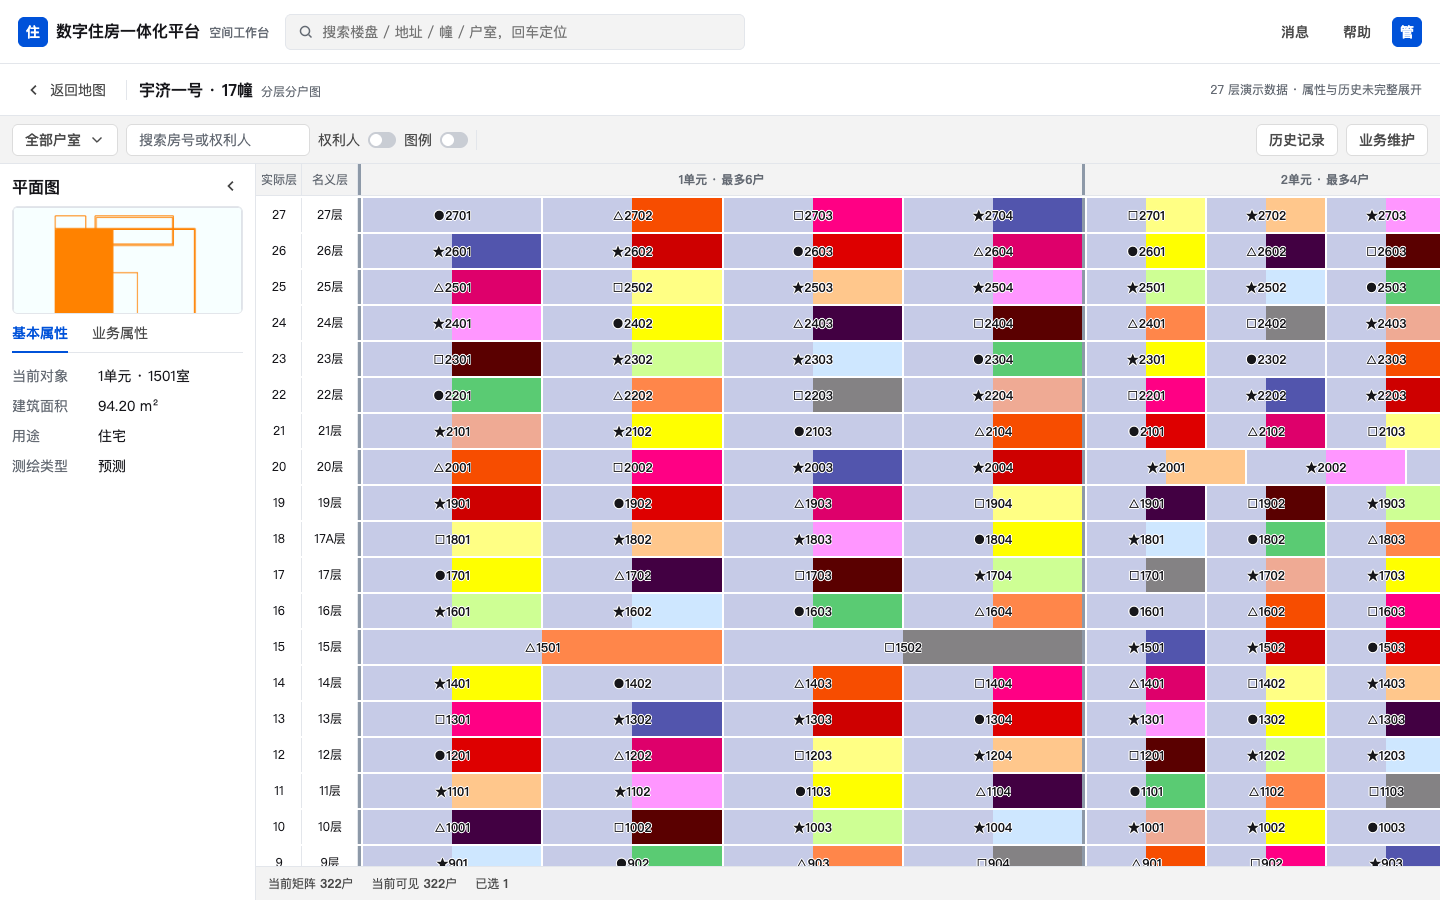
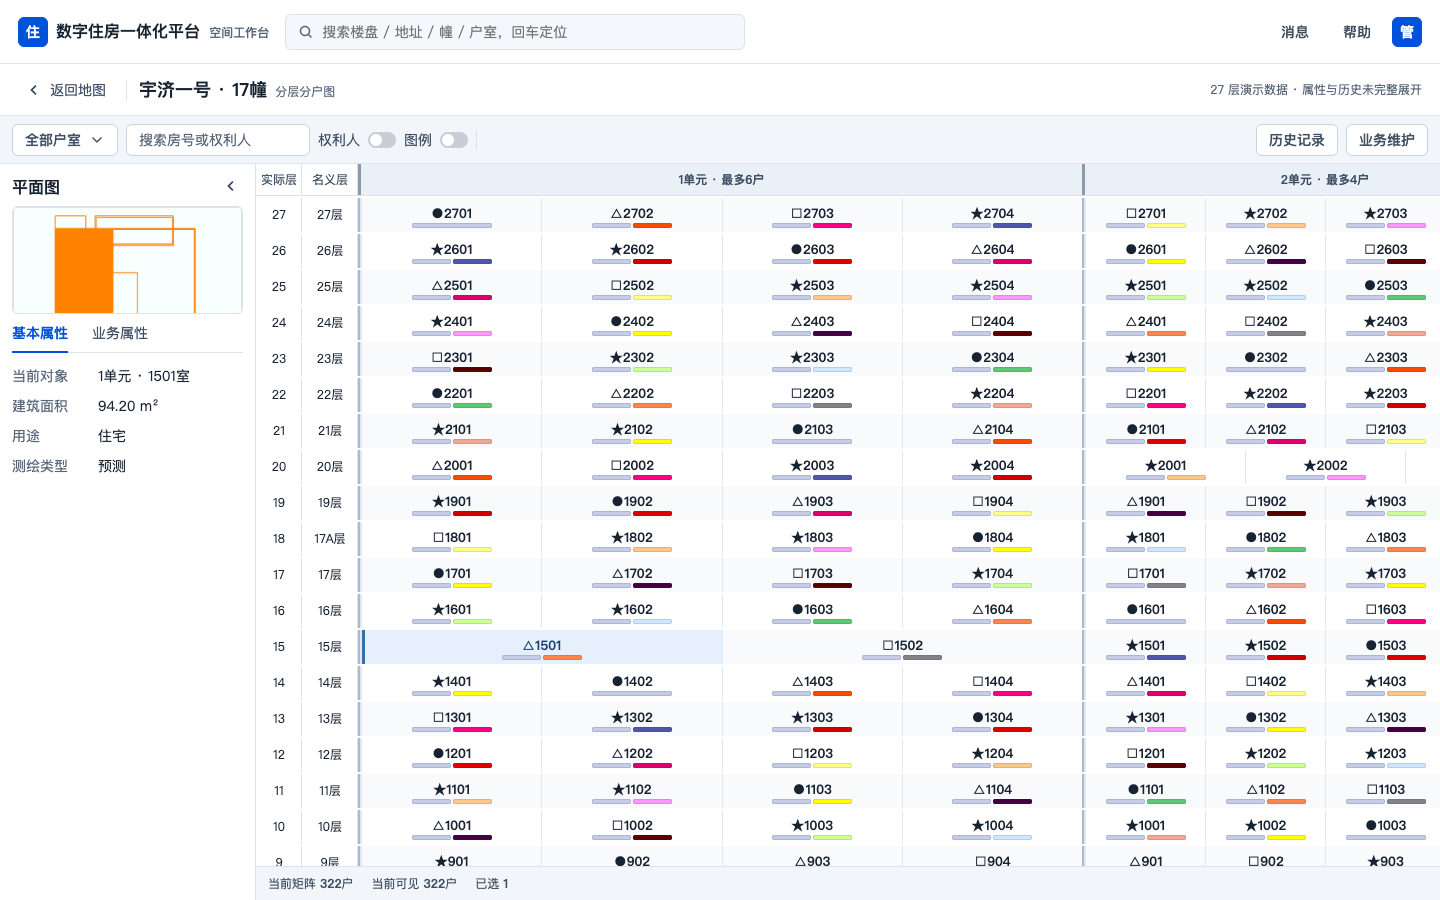
Publish approved GIS building matrix styling and evidence

diff --git a/public/projects/real-estate-gis/prototypes/building/index.html b/public/projects/real-estate-gis/prototypes/building/index.html
@@ -7,7 +7,56 @@
 <title>&#20998;&#23618;&#20998;&#25143;&#22270;&#65372;&#25968;&#23383;&#20303;&#25151;&#19968;&#20307;&#21270;&#24179;&#21488;</title>
 <link rel="stylesheet" href="workspace-tdesign.css">
 <style>html,body{width:100%;min-width:100%;height:100%;overflow:hidden}.workspace-shell{width:100%;min-width:100%}.workspace-shell.building>section{width:100%;min-width:100%}.workspace-shell .wk-global-search>svg{display:block;width:16px;height:16px;flex:0 0 16px;fill:none;stroke:currentColor;overflow:visible}.workspace-shell .wk-global-search>svg circle,.workspace-shell .wk-global-search>svg path{fill:none;stroke:currentColor}
-*{box-sizing:border-box}body{margin:0}.building{height:100vh;overflow:hidden;background:var(--wk-bg-page)}.building,.building button,.building input{font-family:var(--wk-font-family)}.main{display:flex;flex:1;min-height:0}.column{display:flex;min-width:0;flex:1;flex-direction:column;background:var(--wk-bg-surface)}.wk-toolbar{position:relative;z-index:20;overflow:visible}.bar-search{width:184px}.sep{width:1px;height:20px;background:var(--wk-border)}.inspector-pad{height:100%;padding:12px;position:relative}.collapse{position:absolute;top:8px;right:8px}.plan-head{display:flex;justify-content:space-between;margin:0 0 8px;font-size:16px;font-weight:600}.plan-head small{font-size:12px;font-weight:400;color:var(--wk-text-placeholder)}.plan{height:108px;display:grid;place-items:center;background:#f4f8f8;border:1px solid var(--wk-border);border-radius:6px}.plan b{width:104px;height:66px;border:2px solid #ff8a00;box-shadow:inset 24px 12px #ff8a00}.props{display:grid;grid-template-columns:78px minmax(0,1fr);gap:8px;margin:12px 0 0;font-size:14px}.props dt{color:var(--wk-text-placeholder)}.props dd{margin:0;overflow:hidden;text-overflow:ellipsis;white-space:nowrap}.hidden{display:none!important}.folded{height:100%;align-items:center;flex-direction:column;gap:12px;padding-top:4px}.folded span{color:var(--wk-text-secondary);font-size:12px;letter-spacing:2px;writing-mode:vertical-rl}.matrix{position:relative;flex:1;min-height:0;overflow:auto;background:#fff}.matrix-canvas{width:1915px;min-height:100%}.head,.row{display:grid;grid-template-columns:46px 56px 724px 483px 606px}.head{position:sticky;top:0;z-index:10;height:32px;border-bottom:1px solid var(--wk-border);color:var(--wk-text-placeholder);font-size:12px;text-align:center}.head>*{display:grid;place-items:center;background:var(--wk-bg-subtle)}.row{height:34px;margin-top:2px}.floor{display:grid;place-items:center;background:#fff;box-shadow:inset -1px 0 var(--wk-border);font-size:12px}.actual,.nominal{position:sticky;z-index:12;background:#fff}.actual{left:0}.nominal{left:46px}.head .actual,.head .nominal{z-index:14;background:var(--wk-bg-subtle)}.unit-band{display:grid;gap:2px;min-width:0;padding-left:2px;border-left:3px solid #8d99a8;background:#fff}.head b{border-left:3px solid #8d99a8}.room{position:relative;display:flex;align-items:center;justify-content:center;min-width:0;overflow:hidden;border:0;padding:0 4px;background:#cbd2ee;color:#16161a;cursor:pointer;font-size:12px;font-weight:600;text-overflow:ellipsis;white-space:nowrap;text-shadow:-1px 0 #fff,0 1px #fff,1px 0 #fff,0 -1px #fff}.room:hover{outline:1px solid var(--wk-primary);outline-offset:-1px}.room:focus-visible,.room.selected{outline:2px solid var(--wk-primary);outline-offset:-2px;z-index:2}.state-band{position:absolute;inset:0;display:flex;z-index:0}.state-band i{flex:1;background:var(--state)}.room__label{position:relative;z-index:1;overflow:hidden;text-overflow:ellipsis}.room.dim{opacity:.18}.matrix-empty{position:absolute;inset:32px 0 0;display:none;place-items:center;background:rgba(255,255,255,.92);z-index:16}.matrix-empty.show{display:grid}.matrix-foot{height:34px;display:flex;align-items:center;gap:18px;padding:0 12px;background:var(--wk-bg-subtle);border-top:1px solid var(--wk-border);color:var(--wk-text-secondary);font-size:12px}.legend{position:absolute;top:164px;right:0;bottom:0;z-index:30;width:272px;box-shadow:var(--wk-shadow-float)}.legend-head{display:flex;align-items:center;justify-content:space-between;padding:12px 14px;border-bottom:1px solid var(--wk-border)}.legend-hint{padding:8px 14px;background:var(--wk-bg-subtle);color:var(--wk-text-placeholder);font-size:12px}.legend-scroll{overflow:auto}.legend-group{padding:10px 14px;border-bottom:1px solid var(--wk-border)}.legend-group b{font-size:12px}.legend-item{display:flex;align-items:center;min-height:30px;gap:8px;color:var(--wk-text-secondary);font-size:12px;cursor:pointer}.legend-item:has(input:checked){background:var(--wk-primary-bg);color:var(--wk-primary);font-weight:600}.swatch{width:12px;height:12px;flex:0 0 12px;border:1px solid var(--wk-border-control);border-radius:4px;background:var(--state)}.legend-item input{width:16px;height:16px;accent-color:var(--wk-primary)}.toast{position:absolute;left:50%;bottom:48px;display:none;z-index:50;transform:translateX(-50%);padding:9px 14px;color:#fff;background:#1d2129;border-radius:4px;font-size:12px}.toast.show{display:block}@media(max-width:900px){.wk-brand{min-width:auto}.wk-brand__sub,.nav-text{display:none}.bar-search{width:150px}.wk-object-header__context{display:none}}
+*{box-sizing:border-box}body{margin:0}.building{height:100vh;overflow:hidden;background:var(--wk-bg-page)}.building,.building button,.building input{font-family:var(--wk-font-family)}.main{display:flex;flex:1;min-height:0}.column{display:flex;min-width:0;flex:1;flex-direction:column;background:var(--wk-bg-surface)}.wk-toolbar{position:relative;z-index:20;overflow:visible}.bar-search{width:184px}.sep{width:1px;height:20px;background:var(--wk-border)}.inspector-pad{height:100%;padding:12px;position:relative}.collapse{position:absolute;top:8px;right:8px}.plan-head{display:flex;justify-content:space-between;margin:0 0 8px;font-size:16px;font-weight:600}.plan-head small{font-size:12px;font-weight:400;color:var(--wk-text-placeholder)}.plan{height:108px;display:grid;place-items:center;background:#f4f8f8;border:1px solid var(--wk-border);border-radius:6px}.plan b{width:104px;height:66px;border:2px solid #ff8a00;box-shadow:inset 24px 12px #ff8a00}.props{display:grid;grid-template-columns:78px minmax(0,1fr);gap:8px;margin:12px 0 0;font-size:14px}.props dt{color:var(--wk-text-placeholder)}.props dd{margin:0;overflow:hidden;text-overflow:ellipsis;white-space:nowrap}.hidden{display:none!important}.folded{height:100%;align-items:center;flex-direction:column;gap:12px;padding-top:4px}.folded span{color:var(--wk-text-secondary);font-size:12px;letter-spacing:2px;writing-mode:vertical-rl}.matrix{position:relative;flex:1;min-height:0;overflow:auto;background:#fff}.matrix-canvas{width:1915px;min-height:100%}.head,.row{display:grid;grid-template-columns:46px 56px 724px 483px 606px}.head{position:sticky;top:0;z-index:10;height:32px;border-bottom:1px solid var(--wk-border);color:var(--wk-text-placeholder);font-size:12px;text-align:center}.head>*{display:grid;place-items:center;background:var(--wk-matrix-heading);color:var(--wk-text-secondary)}.row{height:34px;margin-top:2px}.floor{display:grid;place-items:center;background:#fff;box-shadow:inset -1px 0 var(--wk-border);font-size:12px}.actual,.nominal{position:sticky;z-index:12;background:#fff}.actual{left:0}.nominal{left:46px}.head .actual,.head .nominal{z-index:14}.unit-band{display:grid;gap:1px;min-width:0;padding-left:2px;border-left:2px solid var(--wk-matrix-unit-line);background:var(--wk-matrix-grid-line)}.head b{border-left:3px solid #8d99a8}
+.room {
+  position: relative;
+  display: flex;
+  align-items: center;
+  justify-content: center;
+  min-width: 0;
+  overflow: hidden;
+  border: 0;
+  padding: 0 4px 5px;
+  background: var(--wk-matrix-room);
+  color: var(--wk-text);
+  cursor: pointer;
+  font-size: 13px;
+  font-weight: 600;
+  font-variant-numeric: tabular-nums;
+  text-overflow: ellipsis;
+  white-space: nowrap;
+}
+.row:nth-child(even) .room { background: var(--wk-bg-surface); }
+.row .room:not(.dim, .selected, .is-selected):hover { background: var(--wk-bg-hover); }
+.row .room:is(.selected, .is-selected) {
+  background: var(--wk-matrix-room-selected);
+  color: var(--wk-matrix-room-selected-ink);
+  box-shadow: inset 3px 0 var(--wk-matrix-room-indicator);
+}
+.room:focus-visible {
+  outline: 2px solid var(--wk-primary);
+  outline-offset: -3px;
+  z-index: 2;
+}
+.matrix.has-room-selection .room:not(.selected, .is-selected, .dim) {
+  opacity: .72;
+}
+.state-band {
+  position: absolute;
+  inset: auto 10px 4px;
+  display: flex;
+  gap: 2px;
+  width: min(80px, calc(100% - 20px));
+  height: 5px;
+  margin-inline: auto;
+}
+.state-band i {
+  flex: 1;
+  background: var(--state);
+  border-radius: 2px;
+  box-shadow: inset 0 0 0 1px rgb(27 49 76 / 14%);
+}
+.room__label{position:relative;z-index:1;overflow:hidden;text-overflow:ellipsis}.room.dim{opacity:.18}.matrix-empty{position:absolute;inset:32px 0 0;display:none;place-items:center;background:rgba(255,255,255,.92);z-index:16}.matrix-empty.show{display:grid}.matrix-foot{height:34px;display:flex;align-items:center;gap:18px;padding:0 12px;background:var(--wk-bg-subtle);border-top:1px solid var(--wk-border);color:var(--wk-text-secondary);font-size:12px}.legend{position:absolute;top:164px;right:0;bottom:0;z-index:30;width:272px;box-shadow:var(--wk-shadow-float)}.legend-head{display:flex;align-items:center;justify-content:space-between;padding:12px 14px;border-bottom:1px solid var(--wk-border)}.legend-hint{padding:8px 14px;background:var(--wk-bg-subtle);color:var(--wk-text-placeholder);font-size:12px}.legend-scroll{overflow:auto}.legend-group{padding:10px 14px;border-bottom:1px solid var(--wk-border)}.legend-group b{font-size:12px}.legend-item{display:flex;align-items:center;min-height:30px;gap:8px;color:var(--wk-text-secondary);font-size:12px;cursor:pointer}.legend-item:has(input:checked){background:var(--wk-primary-bg);color:var(--wk-primary);font-weight:600}.swatch{width:12px;height:12px;flex:0 0 12px;border:1px solid var(--wk-border-control);border-radius:4px;background:var(--state)}.legend-item input{width:16px;height:16px;accent-color:var(--wk-primary)}.toast{position:absolute;left:50%;bottom:48px;display:none;z-index:50;transform:translateX(-50%);padding:9px 14px;color:#fff;background:#1d2129;border-radius:4px;font-size:12px}.toast.show{display:block}@media(max-width:900px){.wk-brand{min-width:auto}.wk-brand__sub,.nav-text{display:none}.bar-search{width:150px}.wk-object-header__context{display:none}}
 </style>
 <style>
 .plan{overflow:hidden}.plan img{display:block;max-width:100%;max-height:100%;object-fit:contain}
@@ -25,23 +74,6 @@
 </style>
 <script src="../demo-data.js"></script>
 </head>
-<style>
-.workspace-shell .room.selected,
-.workspace-shell .room.is-selected {
-  z-index: 2;
-}
-.workspace-shell .room.is-selected::after {
-  content: '';
-  position: absolute;
-  inset: 0;
-  z-index: 3;
-  pointer-events: none;
-  border: 3px solid #0052D9;
-}
-.workspace-shell .matrix.has-room-selection .room:not(.is-selected) {
-  opacity: .18;
-}
-</style>
 <body>
 <div class="workspace-shell building"><section style="height:100%;display:flex;flex-direction:column;position:relative;overflow:hidden"><header class="wk-header"><div class="wk-brand">
 <span class="wk-brand__mark">&#20303;</span><span>&#25968;&#23383;&#20303;&#25151;&#19968;&#20307;&#21270;&#24179;&#21488; <span class="wk-brand__sub">&#31354;&#38388;&#24037;&#20316;&#21488;</span></span>

diff --git a/public/projects/real-estate-gis/prototypes/building/workspace-tdesign.css b/public/projects/real-estate-gis/prototypes/building/workspace-tdesign.css
@@ -28,16 +28,16 @@
   --wk-primary-active: var(--primary-active, #003CAB);
   --wk-primary-bg: var(--primary-1, #ECF2FE);
   --wk-primary-bg-hover: var(--color-primary-bg-hover, #D4E3FC);
-  --wk-text: var(--text-1, #16161A);
-  --wk-text-secondary: var(--text-2, #4B4B4B);
-  --wk-text-placeholder: var(--text-3, #646A73);
+  --wk-text: var(--text-1, #182331);
+  --wk-text-secondary: var(--text-2, #405064);
+  --wk-text-placeholder: var(--text-3, #576579);
   --wk-text-disabled: var(--text-disabled, #C9CDD4);
-  --wk-bg-page: var(--bg-page, #F3F3F3);
+  --wk-bg-page: var(--bg-page, #f3f6fa);
   --wk-bg-surface: var(--bg-surface, #FFFFFF);
-  --wk-bg-subtle: var(--bg-subtle, #F3F3F3);
-  --wk-bg-hover: var(--bg-hover, #F3F3F3);
-  --wk-border: var(--border-1, #E3E6EB);
-  --wk-border-control: var(--border-2, #DCDCDC);
+  --wk-bg-subtle: var(--bg-subtle, #f2f5f9);
+  --wk-bg-hover: var(--bg-hover, #edf3fa);
+  --wk-border: var(--border-1, #dce3ed);
+  --wk-border-control: var(--border-2, #c8d3e1);
   --wk-success: var(--color-success, #2BA471);
   --wk-success-bg: var(--color-success-bg, #E8F7EE);
   --wk-success-text: #1F7A50;
@@ -78,6 +78,13 @@
   --wk-header-height: 64px;
   --wk-object-header-height: 52px;
   --wk-toolbar-height: 48px;
+  --wk-matrix-heading: #eaf0f7;
+  --wk-matrix-unit-line: #a9bad0;
+  --wk-matrix-grid-line: #e1e8f1;
+  --wk-matrix-room: #f8fafc;
+  --wk-matrix-room-selected: #e6effc;
+  --wk-matrix-room-selected-ink: #173e75;
+  --wk-matrix-room-indicator: #396da8;
   --wk-matrix-head-height: 32px;
   --wk-matrix-row-height: 34px;
   --wk-matrix-actual-width: 46px;
@@ -89,9 +96,9 @@
   --wk-z-drawer: 1000;
   --wk-z-dialog: 1100;
   --wk-z-tooltip: 1200;
-  --wk-shadow-float: 0 6px 16px rgba(22, 22, 26, 0.12);
+  --wk-shadow-float: 0 4px 12px rgb(26 45 70 / 12%);
   --wk-shadow-dialog: 0 16px 40px rgba(22, 22, 26, 0.16);
-  --wk-focus-ring: var(--wk-primary-bg-hover);
+  --wk-focus-ring: var(--wk-primary);
   --wk-transition-fast: 120ms ease;
   --wk-transition-base: 180ms ease;
 
@@ -156,7 +163,7 @@
   padding: 0 var(--wk-space-3);
   gap: var(--wk-space-2);
   color: var(--wk-text-placeholder);
-  background: var(--wk-bg-subtle);
+  background: #f4f7fb;
   border: 1px solid var(--wk-border);
   border-radius: var(--wk-radius-control);
 }
@@ -245,7 +252,7 @@
   min-width: 0;
   overflow: hidden;
   color: var(--wk-text);
-  font-size: var(--wk-font-title);
+  font-size: 18px;
   font-weight: var(--wk-weight-semibold);
   line-height: var(--wk-leading-title);
   text-overflow: ellipsis;
